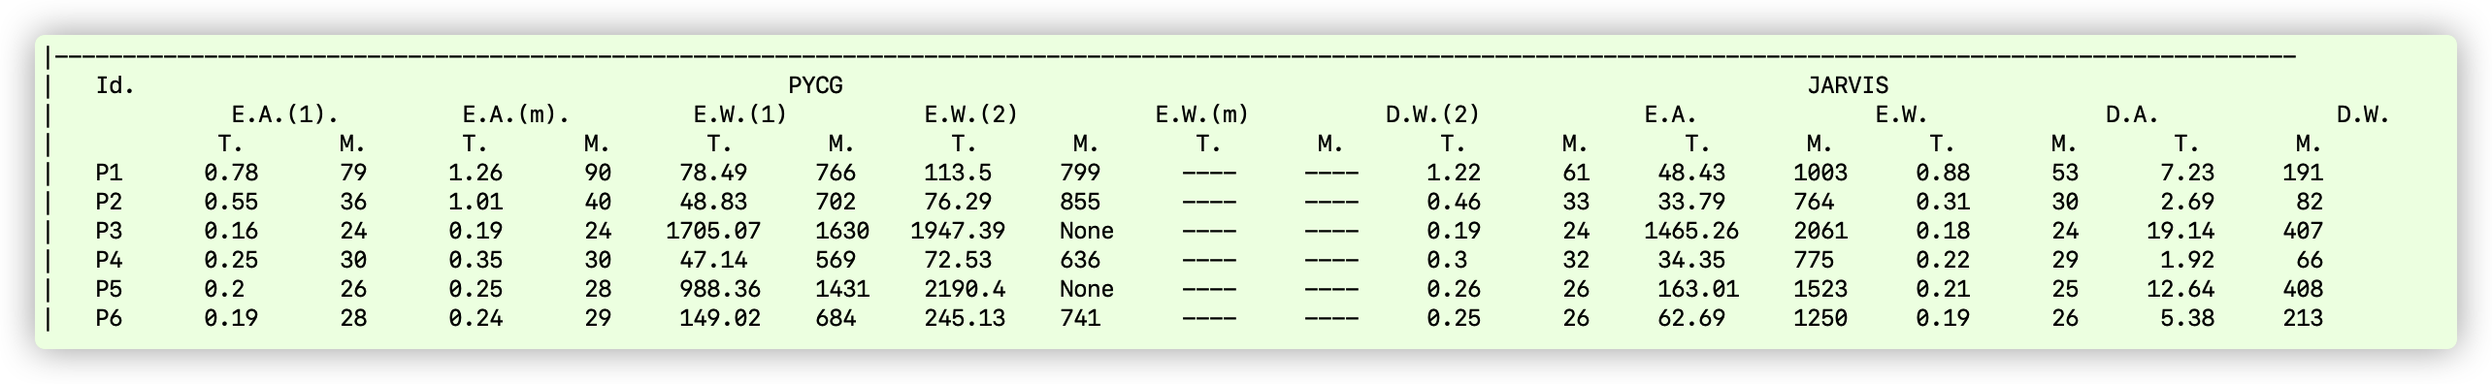
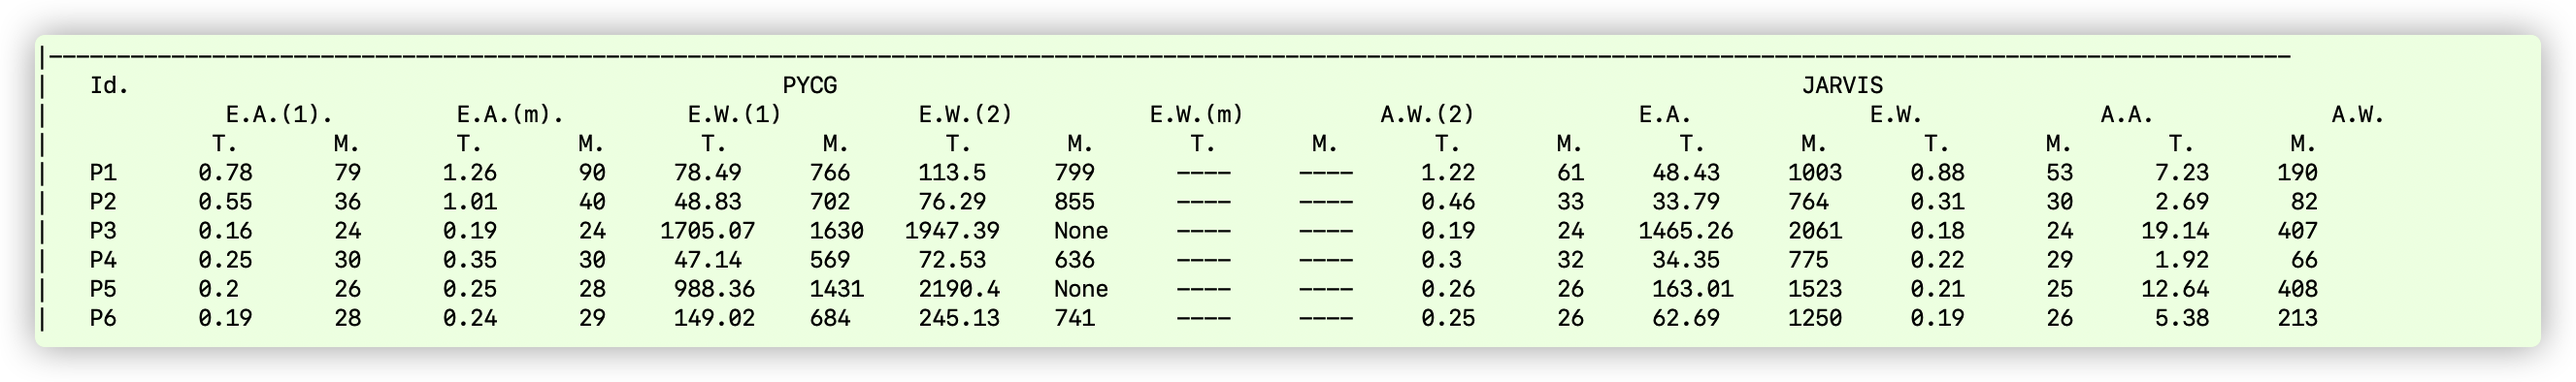
update

diff --git a/Jarvis/reproducing_RQ1/gen_table.py b/Jarvis/reproducing_RQ1/gen_table.py
@@ -116,7 +116,7 @@ interval = 80
 int1 = 8
 cur = [
     ' Id.'.center(int1), 'PYCG'.center(interval), 'JARVIS'.center(interval // 2),
-    '  '.center(int1), 'E.A.(1).'.center(int1*2), 'E.A.(m).'.center(int1*2), 'E.W.(1)'.center(int1*2), 'E.W.(2)'.center(int1*2),'E.W.(m)'.center(int1*2), 'D.W.(2)'.center(int1*2), 'E.A.'.center(int1*2), 'E.W.'.center(int1*2), 'D.A.'.center(int1*2),'D.W.'.center(int1*2),
+    '  '.center(int1), 'E.A.(1).'.center(int1*2), 'E.A.(m).'.center(int1*2), 'E.W.(1)'.center(int1*2), 'E.W.(2)'.center(int1*2),'E.W.(m)'.center(int1*2), 'A.W.(2)'.center(int1*2), 'E.A.'.center(int1*2), 'E.W.'.center(int1*2), 'A.A.'.center(int1*2),'A.W.'.center(int1*2),
     ''.center(int1),'T.'.center(int1),'M.'.center(int1),'T.'.center(int1),'M.'.center(int1),'T.'.center(int1),'M.'.center(int1),'T.'.center(int1),'M.'.center(int1),'T.'.center(int1),'M.'.center(int1),'T.'.center(int1),'M.'.center(int1),'T.'.center(int1),'M.'.center(int1),'T.'.center(int1),'M.'.center(int1),'T.'.center(int1),'M.'.center(int1)
 ]
 

diff --git a/Jarvis/reproducing_RQ2/gen_table.py b/Jarvis/reproducing_RQ2/gen_table.py
@@ -393,7 +393,7 @@ interval = 80
 int1 = 8
 cur = [
     'Id.'.center(int1), 'PYCG'.center(interval), 'JARVIS'.center(interval // 2),
-    ''.center(int1+2), 'E.A.(1).'.center(int1*2), 'D.A.(1).'.center(int1*2), 'E.A.(m)'.center(int1*2), 'D.A.(m)'.center(int1*2),'D.W.(1)'.center(int1*2), 'D.W.(2)'.center(int1*2), 'E.A.'.center(int1*2), 'D.A.'.center(int1*2), 'D.W.'.center(int1*2),
+    ''.center(int1+2), 'E.A.(1).'.center(int1*2), 'A.A.(1).'.center(int1*2), 'E.A.(m)'.center(int1*2), 'A.A.(m)'.center(int1*2),'A.W.(1)'.center(int1*2), 'A.W.(2)'.center(int1*2), 'E.A.'.center(int1*2), 'A.A.'.center(int1*2), 'A.W.'.center(int1*2),
     ''.center(int1), 'Pre.'.center(int1),'Rec.'.center(int1),'Pre.'.center(int1),'Rec.'.center(int1),'Pre.'.center(int1),'Rec.'.center(int1),'Pre.'.center(int1),'Rec.'.center(int1),'Pre.'.center(int1),'Rec.'.center(int1),'Pre.'.center(int1),'Rec.'.center(int1),'Pre.'.center(int1),'Rec.'.center(int1),'Pre.'.center(int1),'Rec.'.center(int1),'Pre.'.center(int1),'Rec.'.center(int1)
 ]
 
